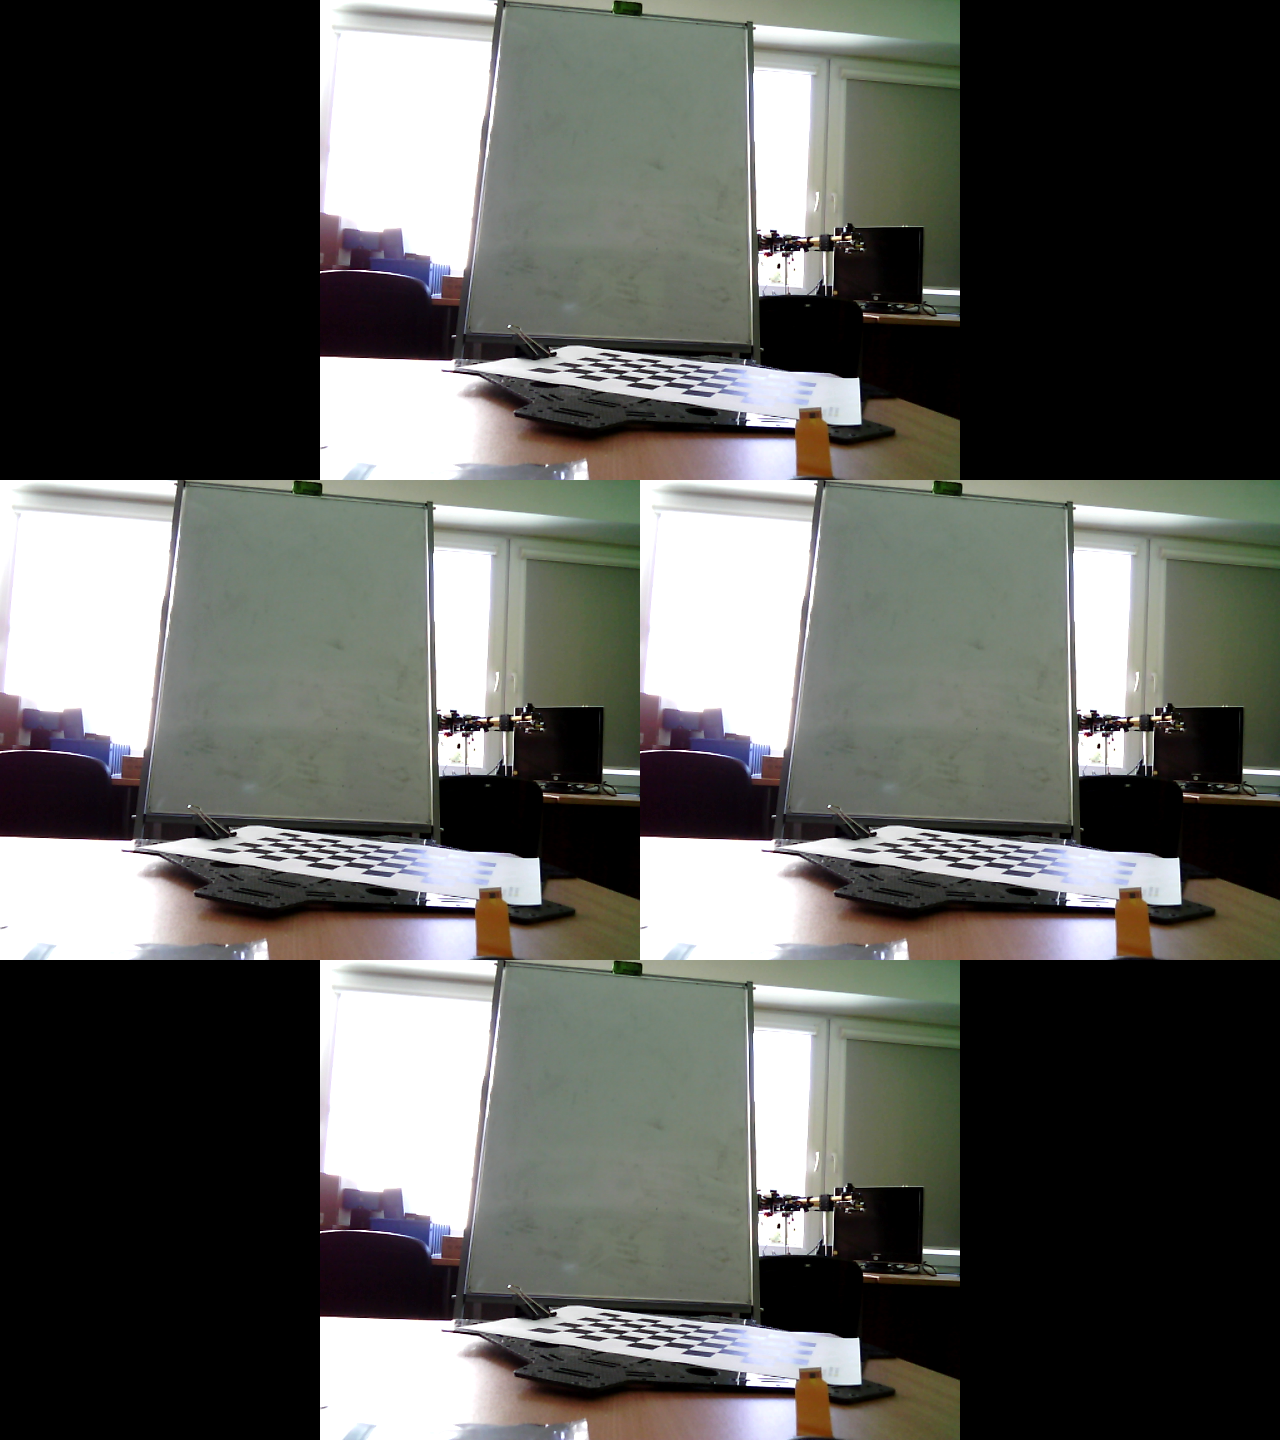
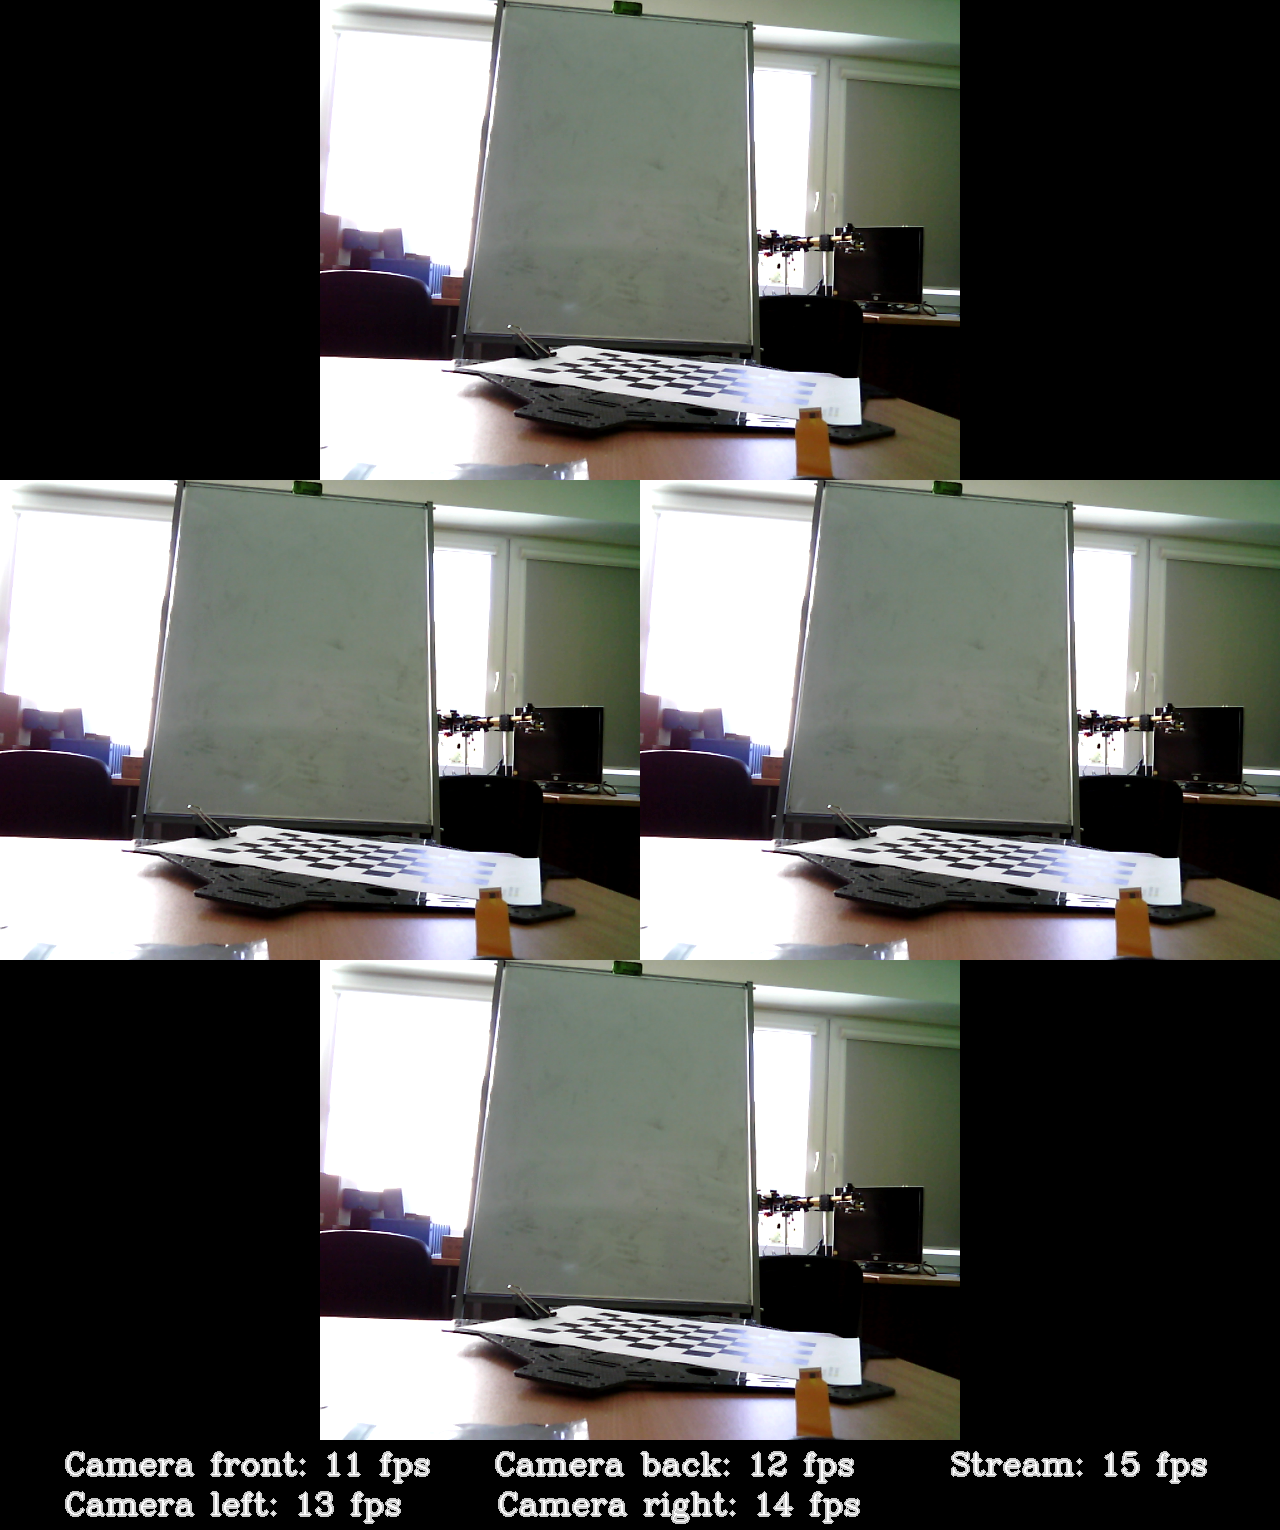
Moved fps information to the bottom of frame

diff --git a/utils/ImageConnectorsCollection.py b/utils/ImageConnectorsCollection.py
@@ -1,5 +1,7 @@
 import numpy as np
 from typing import Optional
+import cv2
+
 
 class ImageConnectorBase:
     
@@ -26,6 +28,10 @@ class ImageConnectorBase:
     def getConnectedImage(self) -> Optional[np.ndarray]:
         """returns last connected image or black frame if there was none previously"""
         return self.lastFrame
+
+    def setFpsInfo(self, camfps : dict, fps : int) -> None:
+        """This method must be overridden with your image connection implementation"""
+        pass
     
 
 class ImageConnectorPanoramic(ImageConnectorBase):
@@ -36,17 +42,26 @@ class ImageConnectorPanoramic(ImageConnectorBase):
     
     def _initFrame(self):
         print(f"Width:{self.singleImageWidth} Height:{self.singleImageHeight}")
-        self.lastFrame = np.zeros((self.singleImageHeight,self.singleImageWidth * 4,3),dtype=np.uint8)
+        self.lastFrame = np.zeros((self.singleImageHeight + 50,self.singleImageWidth * 4,3),dtype=np.uint8)
 
     def connectImages(self):
         """Connects images previously set with method setImages"""
         widthOffset = self.singleImageWidth
+        heightOffset = self.singleImageHeight
 
-        self.lastFrame[:,:widthOffset,:] = self.images["left"] if self.images["left"] is not None else 0
-        self.lastFrame[:,widthOffset:widthOffset * 2,:] = self.images["front"] if self.images["front"] is not None else 0
-        self.lastFrame[:,widthOffset*2:widthOffset*3,:] = self.images["right"] if self.images["right"] is not None else 0
-        self.lastFrame[:,widthOffset*3:,:] = self.images["back"] if self.images["back"] is not None else 0
+        self.lastFrame[:heightOffset,:widthOffset,:] = self.images["left"] if self.images["left"] is not None else 0
+        self.lastFrame[:heightOffset,widthOffset:widthOffset * 2,:] = self.images["front"] if self.images["front"] is not None else 0
+        self.lastFrame[:heightOffset,widthOffset*2:widthOffset*3,:] = self.images["right"] if self.images["right"] is not None else 0
+        self.lastFrame[:heightOffset,widthOffset*3:,:] = self.images["back"] if self.images["back"] is not None else 0
         return True
+
+    def setFpsInfo(self, camfps : dict, fps : int) -> None:
+        """Pass the fps information and it will be displayed in frame"""
+        self.lastFrame[self.singleImageHeight:, :] = 0
+        textWithBorder(frame=self.lastFrame, text=f"        Camera front: {camfps['front']} fps          Camera back: "
+                                                  f"{camfps['back']} fps          Camera left: {camfps['left']} fps    "
+                                                  f"      Camera right: {camfps['right']} fps          Stream: {fps} fps",
+                       pos=(0, self.singleImageHeight + 10), textColor=(255, 255, 255), borderColor=(200, 200, 200))
 
 
 class ImageConnectorSquare(ImageConnectorBase):
@@ -57,7 +72,7 @@ class ImageConnectorSquare(ImageConnectorBase):
     
     def _initFrame(self):
         print(f"Width:{self.singleImageWidth} Height:{self.singleImageHeight}")
-        self.lastFrame = np.zeros((self.singleImageHeight * 2,self.singleImageWidth * 2,3),dtype=np.uint8)
+        self.lastFrame = np.zeros((self.singleImageHeight * 2 + 90,self.singleImageWidth * 2,3),dtype=np.uint8)
 
     def connectImages(self):
         """Connects images previously set with method setImages"""
@@ -66,9 +81,19 @@ class ImageConnectorSquare(ImageConnectorBase):
 
         self.lastFrame[:heightOffset,:widthOffset,:] = self.images["front"] if self.images["front"] is not None else 0
         self.lastFrame[:heightOffset,widthOffset:,:] = self.images["back"] if self.images["back"] is not None else 0
-        self.lastFrame[heightOffset:,:widthOffset,:] = self.images["left"] if self.images["left"] is not None else 0
-        self.lastFrame[heightOffset:,widthOffset:,:] = self.images["right"] if self.images["right"] is not None else 0
+        self.lastFrame[heightOffset:heightOffset*2,:widthOffset,:] = self.images["left"] if self.images["left"] is not None else 0
+        self.lastFrame[heightOffset:heightOffset*2,widthOffset:,:] = self.images["right"] if self.images["right"] is not None else 0
         return True
+
+    def setFpsInfo(self, camfps : dict, fps : int) -> None:
+        """Pass the fps information and it will be displayed in frame"""
+        self.lastFrame[self.singleImageHeight*2:, :] = 0
+        textWithBorder(frame=self.lastFrame, text=f"    Camera front: {camfps['front']} fps    "
+                                                  f"Camera back: {camfps['back']} fps      Stream: {fps} fps",
+                       pos=(0, self.singleImageHeight * 2 + 10), textColor=(255, 255, 255), borderColor=(200, 200, 200))
+        textWithBorder(frame=self.lastFrame, text=f"    Camera left: {camfps['left']} fps      "
+                                                  f"Camera right: {camfps['right']} fps ",
+                       pos=(0, self.singleImageHeight * 2 + 50), textColor=(255, 255, 255), borderColor=(200, 200, 200))
 
 
 class ImageConnectorVerticalSplit(ImageConnectorBase):
@@ -79,7 +104,7 @@ class ImageConnectorVerticalSplit(ImageConnectorBase):
 
     def _initFrame(self):
         print(f"Width:{self.singleImageWidth} Height:{self.singleImageHeight}")
-        self.lastFrame = np.zeros((self.singleImageHeight * 2, self.singleImageWidth * 3, 3), dtype=np.uint8)
+        self.lastFrame = np.zeros((self.singleImageHeight * 2 + 50, self.singleImageWidth * 3, 3), dtype=np.uint8)
 
     def connectImages(self):
         """Connects images previously set with method setImages"""
@@ -87,10 +112,18 @@ class ImageConnectorVerticalSplit(ImageConnectorBase):
         heightOffset = self.singleImageHeight
 
         self.lastFrame[:heightOffset, widthOffset:widthOffset*2, :] = self.images["front"] if self.images["front"] is not None else 0
-        self.lastFrame[heightOffset:, widthOffset:widthOffset*2, :] = self.images["back"] if self.images["back"] is not None else 0
+        self.lastFrame[heightOffset:heightOffset*2, widthOffset:widthOffset*2, :] = self.images["back"] if self.images["back"] is not None else 0
         self.lastFrame[heightOffset//2:(heightOffset*3)//2, :widthOffset, :] = self.images["left"] if self.images["left"] is not None else 0
         self.lastFrame[heightOffset//2:(heightOffset*3)//2, widthOffset*2:, :] = self.images["right"] if self.images["right"] is not None else 0
         return True
+
+    def setFpsInfo(self, camfps : dict, fps : int) -> None:
+        """Pass the fps information and it will be displayed in frame"""
+        self.lastFrame[self.singleImageHeight*2:, :] = 0
+        textWithBorder(frame=self.lastFrame, text=f" Camera front: {camfps['front']} fps   Camera back: "
+                                                  f"{camfps['back']} fps   Camera left: {camfps['left']} fps "
+                                                  f"  Camera right: {camfps['right']} fps   Stream: {fps} fps",
+                       pos=(0, self.singleImageHeight*2 + 10), textColor=(255, 255, 255), borderColor=(200, 200, 200))
 
 
 class ImageConnectorHorizontalSplit(ImageConnectorBase):
@@ -101,7 +134,7 @@ class ImageConnectorHorizontalSplit(ImageConnectorBase):
 
     def _initFrame(self):
         print(f"Width:{self.singleImageWidth} Height:{self.singleImageHeight}")
-        self.lastFrame = np.zeros((self.singleImageHeight * 3, self.singleImageWidth * 2, 3), dtype=np.uint8)
+        self.lastFrame = np.zeros((self.singleImageHeight * 3 + 90, self.singleImageWidth * 2, 3), dtype=np.uint8)
 
     def connectImages(self):
         """Connects images previously set with method setImages"""
@@ -109,7 +142,23 @@ class ImageConnectorHorizontalSplit(ImageConnectorBase):
         heightOffset = self.singleImageHeight
 
         self.lastFrame[:heightOffset, widthOffset//2:(widthOffset*3)//2, :] = self.images["front"] if self.images["front"] is not None else 0
-        self.lastFrame[heightOffset*2:, widthOffset//2:(widthOffset*3)//2, :] = self.images["back"] if self.images["back"] is not None else 0
+        self.lastFrame[heightOffset*2:heightOffset*3, widthOffset//2:(widthOffset*3)//2, :] = self.images["back"] if self.images["back"] is not None else 0
         self.lastFrame[heightOffset:heightOffset*2, :widthOffset, :] = self.images["left"] if self.images["left"] is not None else 0
         self.lastFrame[heightOffset:heightOffset*2, widthOffset:, :] = self.images["right"] if self.images["right"] is not None else 0
         return True
+
+    def setFpsInfo(self, camfps : dict, fps : int) -> None:
+        """Pass the fps information and it will be displayed in frame"""
+        self.lastFrame[self.singleImageHeight*3:, :] = 0
+        textWithBorder(frame=self.lastFrame, text=f"    Camera front: {camfps['front']} fps    "
+                                                  f"Camera back: {camfps['back']} fps      Stream: {fps} fps",
+                       pos=(0, self.singleImageHeight * 3 + 10), textColor=(255, 255, 255), borderColor=(200, 200, 200))
+        textWithBorder(frame=self.lastFrame, text=f"    Camera left: {camfps['left']} fps      "
+                                                  f"Camera right: {camfps['right']} fps ",
+                       pos=(0, self.singleImageHeight * 3 + 50), textColor=(255, 255, 255), borderColor=(200, 200, 200))
+
+
+def textWithBorder(frame, text = "", pos = (0,0), textColor = (0,0,0), borderColor = (128,128,128), fontSize = 1):
+  _, h = cv2.getTextSize(text,cv2.FONT_HERSHEY_COMPLEX,fontSize,6)[0]
+  cv2.putText(frame,text,(pos[0],pos[1]+h),cv2.FONT_HERSHEY_COMPLEX,fontSize,borderColor,3)
+  cv2.putText(frame,text,(pos[0],pos[1]+h),cv2.FONT_HERSHEY_COMPLEX,fontSize,textColor,1)

diff --git a/tempTests/CameraImageConnectorTest.py b/tempTests/CameraImageConnectorTest.py
@@ -16,23 +16,27 @@ print(f"width:{width} height:{height}")
 imageConnector = ImageConnectorPanoramic(width,height)
 imageConnector.setImages({"front":image1, "back":image2, "left":image3, "right":image4})
 imageConnector.connectImages()
+imageConnector.setFpsInfo({"front":11, "back":12, "left":13, "right":14}, 15)
 connectedImage = imageConnector.getConnectedImage()
 cv2.imwrite("../archive/Calibration/connected_image_panoramic.png",connectedImage)
 
 imageConnector = ImageConnectorSquare(width,height)
 imageConnector.setImages({"front":image1, "back":image2, "left":image3, "right":image4})
 imageConnector.connectImages()
+imageConnector.setFpsInfo({"front":11, "back":12, "left":13, "right":14}, 15)
 connectedImage = imageConnector.getConnectedImage()
 cv2.imwrite("../archive/Calibration/connected_image_square.png",connectedImage)
 
 imageConnector = ImageConnectorVerticalSplit(width,height)
 imageConnector.setImages({"front":image1, "back":image2, "left":image3, "right":image4})
 imageConnector.connectImages()
+imageConnector.setFpsInfo({"front":11, "back":12, "left":13, "right":14}, 15)
 connectedImage = imageConnector.getConnectedImage()
 cv2.imwrite("../archive/Calibration/connected_image_vertical.png",connectedImage)
 
 imageConnector = ImageConnectorHorizontalSplit(width,height)
 imageConnector.setImages({"front":image1, "back":image2, "left":image3, "right":image4})
 imageConnector.connectImages()
+imageConnector.setFpsInfo({"front":11, "back":12, "left":13, "right":14}, 15)
 connectedImage = imageConnector.getConnectedImage()
 cv2.imwrite("../archive/Calibration/connected_image_horizontal.png",connectedImage)

diff --git a/tempTests/WebRTC_stream/asynchronuosStreamWebrtc.py b/tempTests/WebRTC_stream/asynchronuosStreamWebrtc.py
@@ -67,14 +67,17 @@ class CameraStreamTrack(VideoStreamTrack):
 
             # Get frames from async threads and connect them
             frames = dict()
+            camfps = dict()
             for camera in CameraStreamTrack.camerasLoaded:
                 data = camera.getFrame()
                 frames[data[0]] = data[1]
+                camfps[data[0]] = camera.fps
 
             # frames = [frame.getFrame() for frame in CameraStreamTrack.camerasLoaded]
 
 
             self.imageConnector.setImages(frames)
+            self.imageConnector.setFpsInfo(camfps, self._fps)
             if self.imageConnector.connectImages():
                 image = self.imageConnector.getConnectedImage()
                 if image is None:
@@ -83,7 +86,7 @@ class CameraStreamTrack(VideoStreamTrack):
             else:
                 raise Exception("Error connecting frames")
             #myText = f"Nanos of fram connecting: {(tempFrameStop - tempFrameStart)/10**9}"
-            textWithBorder(frame=image,text=f"FPS after stream: {self._fps}", pos=(0,200))
+
         except Exception as e:
             print("Exception in recv():", e)
             traceback.print_exc()

diff --git a/utils/ThreadingCamera.py b/utils/ThreadingCamera.py
@@ -18,7 +18,7 @@ class cameraInputThreading(Thread):
         self.camRealesed = False
         self.reset = False
         self.loaded = False
-        self._fps = 0
+        self.fps = 0
         self.frameReady = Event()
         self.frameRaw = np.zeros(tempCameraResSize, dtype='uint8')
         
@@ -59,7 +59,7 @@ class cameraInputThreading(Thread):
         self._prevFrameTimeStamp = frameStart
         self._framesCount += 1
         if self._secondTimer >= 10**9:
-            self._fps = self._framesCount
+            self.fps = self._framesCount
             self._framesCount = self._secondTimer = 0
 
     def signalFun(self, job):
@@ -96,8 +96,6 @@ class cameraInputThreading(Thread):
                     print("Camera not responding! Possibly disconnected.")
                     break  
 
-                textWithBorder(frame=self.frameRaw,text=f"FPS before stream: {self._fps}")
-                textWithBorder(frame=self.frameRaw,text=f"{self.label}",pos=(0,50),fontSize=1)
                 if self.frameRaw is None:
                     missedFrames += 1
                 else: 
